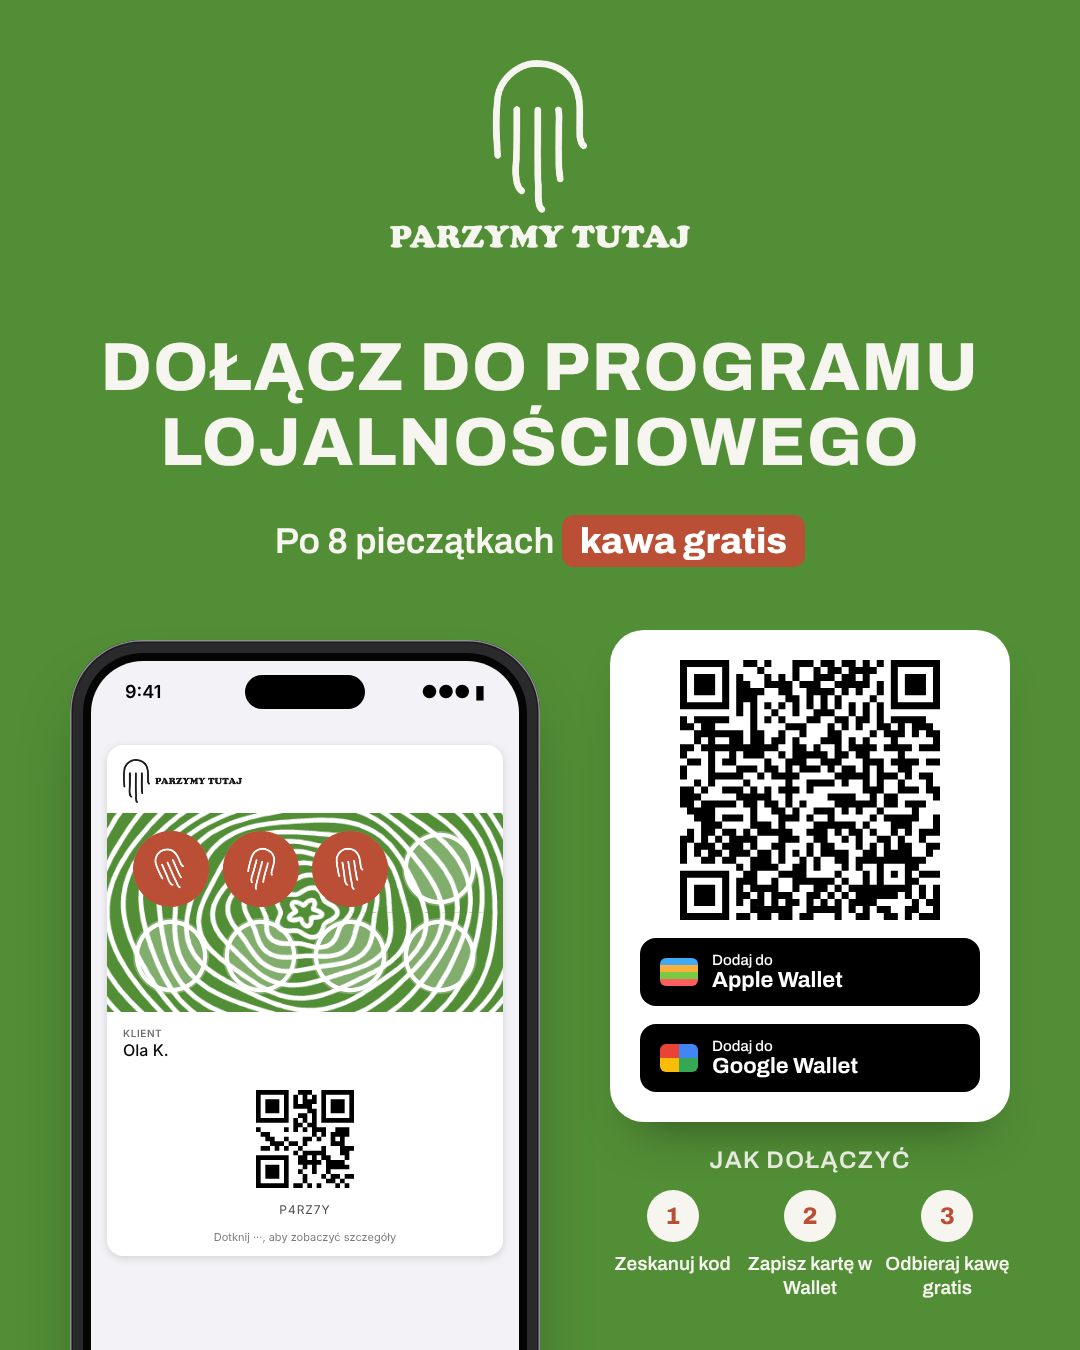
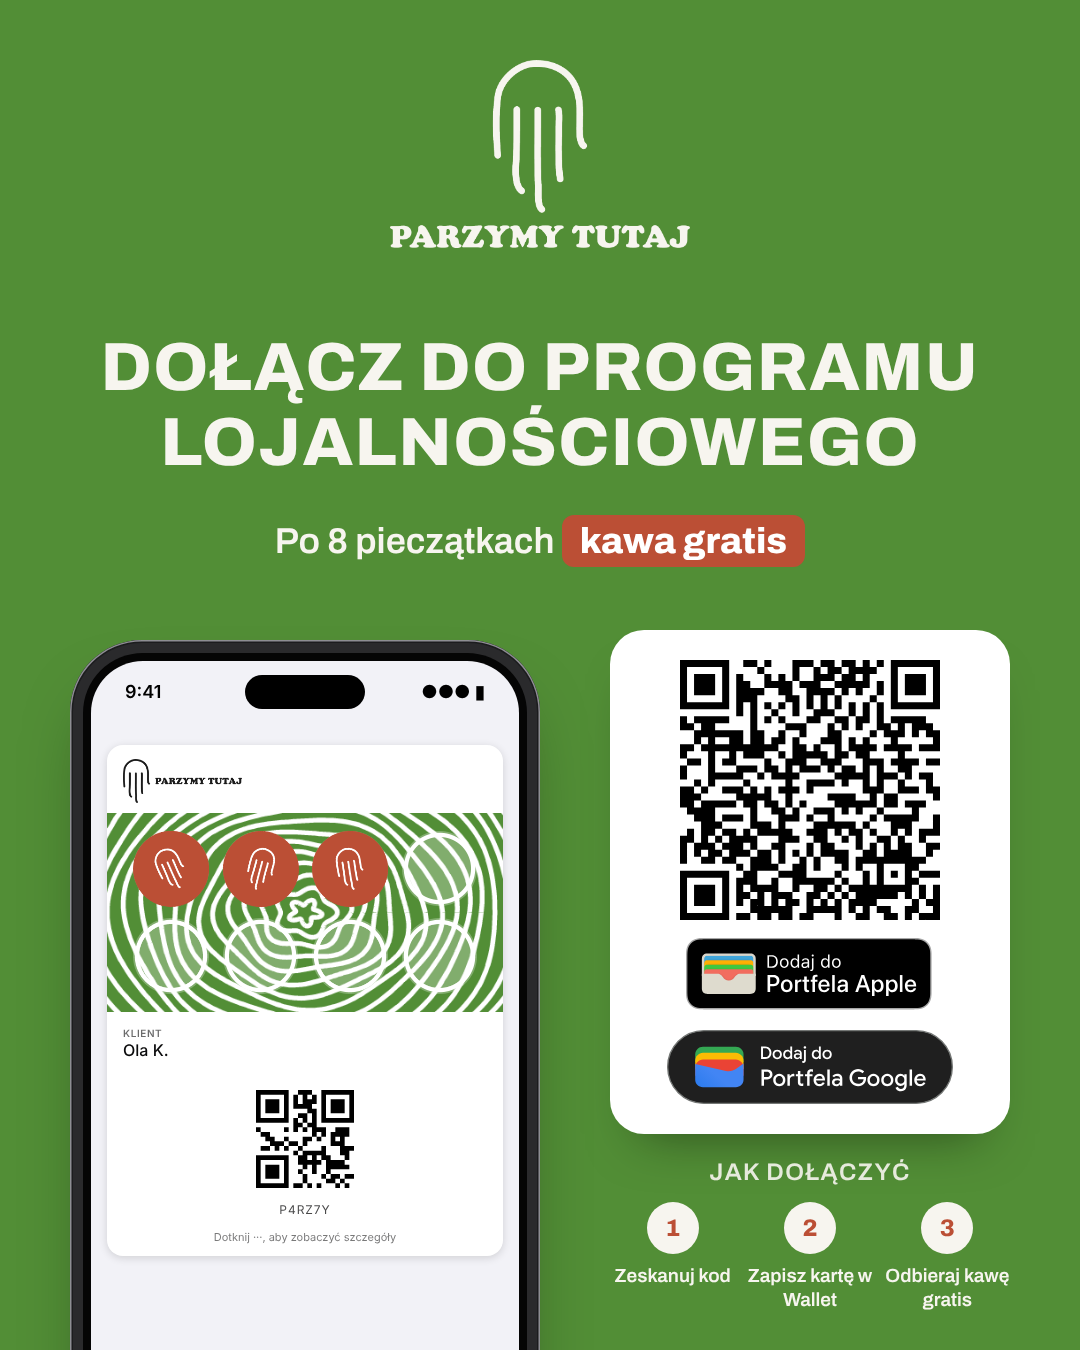
Parzymy post: official Polish Apple Wallet and Google Wallet badges
Claude-Session: https://claude.ai/code/session_01P7jvwC9jL6ipCqqXJiCoo9

Changed region(s): [[0.55, 0.6844, 0.9472, 0.9644]]

diff --git a/marketing/instagram/parzymy/post-dolacz.html b/marketing/instagram/parzymy/post-dolacz.html
@@ -31,6 +31,7 @@ h1{position:absolute;left:0;right:0;top:330px;margin:0;text-align:center;font:80
 .wb.g i{background:conic-gradient(#4285F4 0 25%,#34A853 0 50%,#FBBC05 0 75%,#EA4335 0)}
 .wb span{font:500 15px/1.1 var(--font)}
 .wb span b{display:block;font:700 22px/1.1 var(--font)}
+.badge{display:block;height:74px;width:auto}
 .how{margin:26px 0 0;width:400px}
 .how h3{margin:0 0 18px;text-align:center;font:600 24px/1 var(--font);letter-spacing:.06em;text-transform:uppercase;opacity:.9}
 .how ol{list-style:none;margin:0;padding:0;display:grid;grid-template-columns:repeat(3,1fr);gap:12px;text-align:center}
@@ -64,8 +65,8 @@ window.WAIT_READY = true;
     <div class="side">
       <div class="qrbox">
         <div class="qr">${UI.qrSvg(url)}</div>
-        <div class="wb"><i></i><span>Dodaj do<b>Apple Wallet</b></span></div>
-        <div class="wb g"><i></i><span>Dodaj do<b>Google Wallet</b></span></div>
+        <img class="badge" src="../../../assets/wallet/apple-wallet-pl.svg" alt="Dodaj do Apple Wallet">
+        <img class="badge" src="../../../assets/wallet/google-wallet-pl.svg" alt="Dodaj do Google Wallet">
       </div>
       <div class="how"><h3>Jak dołączyć</h3><ol>
         <li><b>1</b>Zeskanuj kod</li><li><b>2</b>Zapisz kartę w Wallet</li><li><b>3</b>Odbieraj kawę gratis</li>
